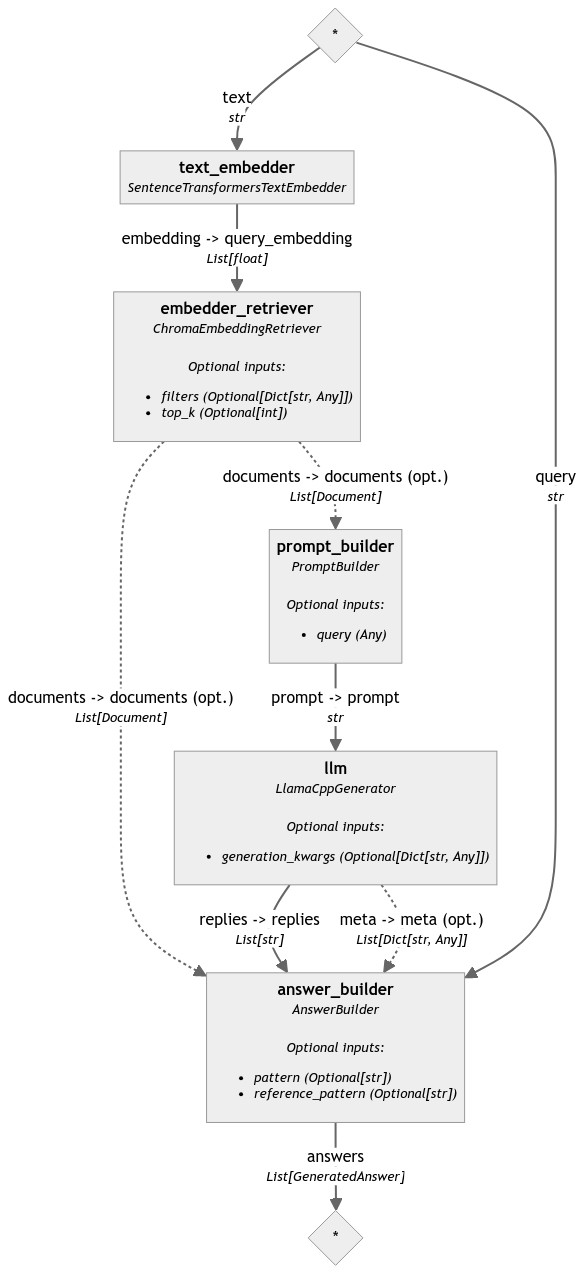
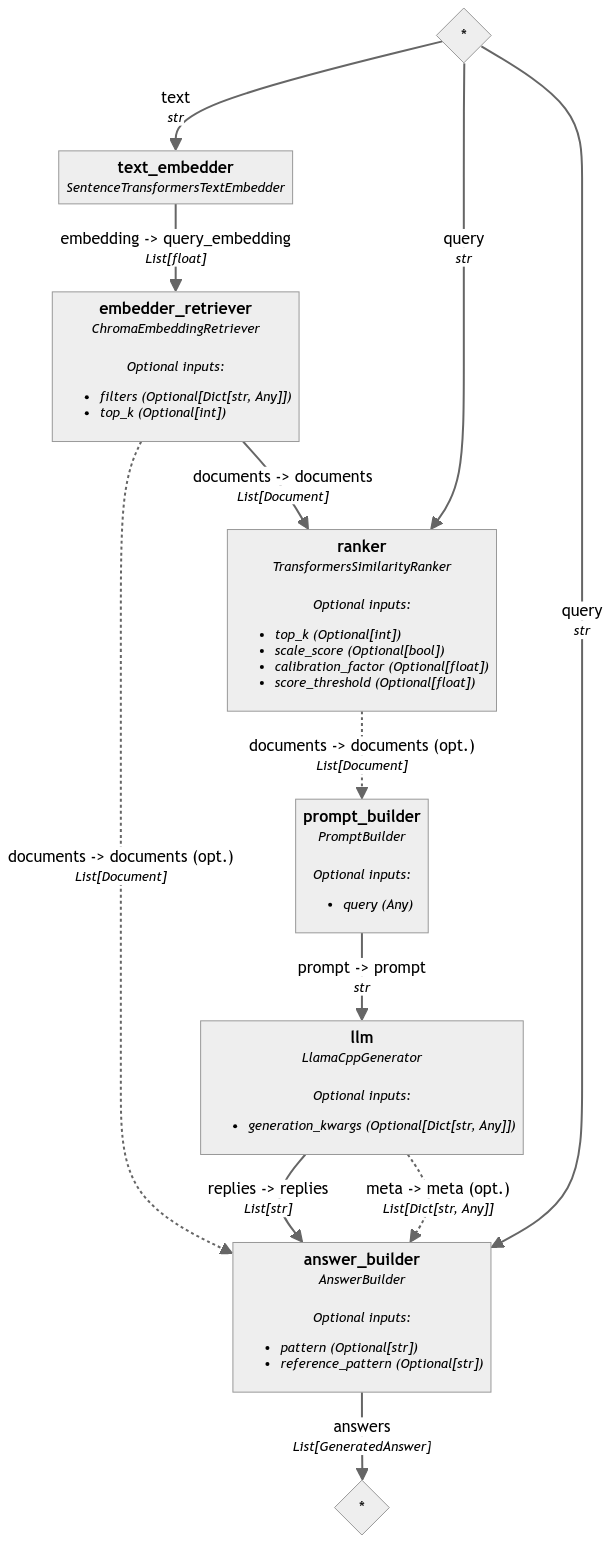
add ranker and llama.cpp arguments

diff --git a/main.py b/main.py
@@ -4,19 +4,21 @@ from haystack.components.embedders import SentenceTransformersTextEmbedder
 from haystack_integrations.components.generators.llama_cpp import LlamaCppGenerator
 from haystack_integrations.components.retrievers.chroma import ChromaEmbeddingRetriever
 from haystack_integrations.document_stores.chroma import ChromaDocumentStore
+from haystack.components.rankers import TransformersSimilarityRanker
 
-from utils import serialize_generated_answer, read_input_json, read_serialized_generated_answer_v2
+from utils import serialize_generated_answer, read_input_json
 
 chat_template = """
 You are a teaching assistant for a course on Data Management.
 You will be provided with queries from students that have been posted on a discussion board, EdDiscussion.
-You will answer the queries using the data in the context.
-If you can not find the answer only using the context, do not provide an answer.
+You will answer the queries using the data in the syllabus.
+If you can not find the answer only using the syllabus, do not provide an answer.
 
 Here is an example of the expected answer based on a query:
 
 QUERY: "Are we able to use private edStem posts to contact you or is email preferred?"
-ANSWER: "Yes, you can use private edStem posts or email to contact us. Also, there is a section in the syllabus describing how/where to contact us that you may find helpful.:"
+ANSWER: "Yes, you can use private edStem posts or email to contact us. Also, there is a section in the syllabus describing how/where to contact us that you may find helpful."
+
 Context:
 {% for doc in documents %}
   {{ doc.content }}
@@ -29,7 +31,15 @@ generator = LlamaCppGenerator(
     model="models/mistral-7b-instruct-v0.2.Q8_0.gguf",
     n_ctx=12000,
     model_kwargs={"n_gpu_layers": -1},
-    generation_kwargs={"max_tokens": 128, "temperature": 0.7},
+    generation_kwargs={
+        # i pulled these from a random reddit post lol
+        # but they seem to work well?
+        "max_tokens": 128,
+        "temperature": 0.7,
+        "repeat_penalty": 1.176,
+        "top_k": 40,
+        "top_p": 0.1,
+    },
 )
 
 text_embedder = SentenceTransformersTextEmbedder(model="hkunlp/instructor-large")
@@ -43,15 +53,18 @@ document_store = ChromaDocumentStore(persist_path="chromaDB")
 rag_pipeline = Pipeline()
 rag_pipeline.add_component("text_embedder", text_embedder)
 rag_pipeline.add_component(
-    "embedder_retriever", ChromaEmbeddingRetriever(document_store=document_store)
+    "embedder_retriever",
+    ChromaEmbeddingRetriever(document_store=document_store, top_k=5),
 )
+rag_pipeline.add_component("ranker", TransformersSimilarityRanker())
 rag_pipeline.add_component("prompt_builder", PromptBuilder(template=chat_template))
 rag_pipeline.add_component("llm", generator)
 rag_pipeline.add_component("answer_builder", AnswerBuilder())
 
 
 rag_pipeline.connect("text_embedder", "embedder_retriever")
-rag_pipeline.connect("embedder_retriever", "prompt_builder")
+rag_pipeline.connect("embedder_retriever", "ranker")
+rag_pipeline.connect("ranker", "prompt_builder")
 rag_pipeline.connect("prompt_builder", "llm")
 rag_pipeline.connect("llm.replies", "answer_builder.replies")
 rag_pipeline.connect("llm.meta", "answer_builder.meta")
@@ -71,6 +84,7 @@ for prompt_dict in prompts:
             "text_embedder": {"text": question},
             "prompt_builder": {"query": question},
             "answer_builder": {"query": question},
+            "ranker": {"query": question},
         }
     )
     result_with_original = {"staff_answer": staff_answer, "generated_answer": result}
